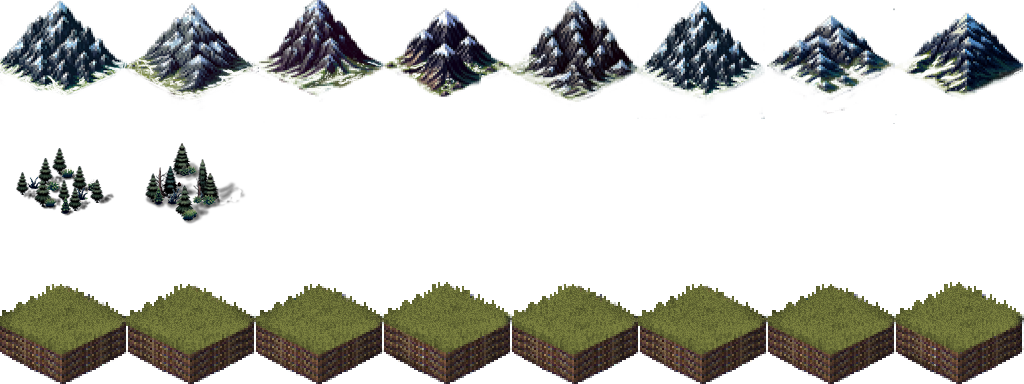
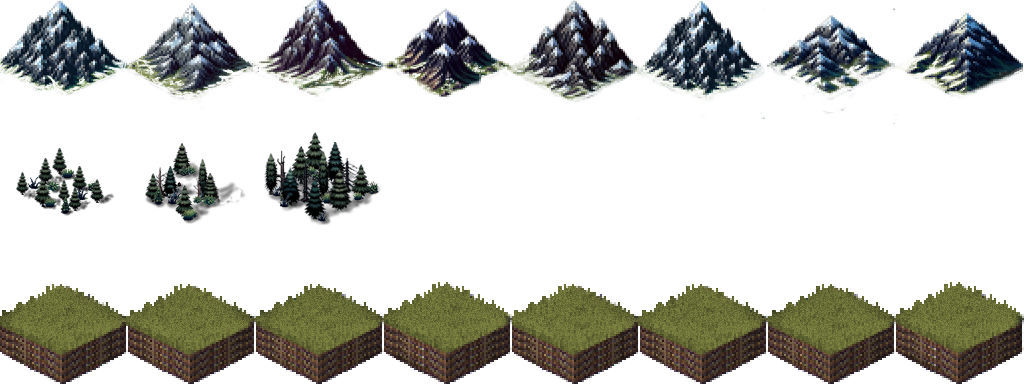
Minor UI and graphical updates

Changed region(s): [[0.25, 0.3438, 0.375, 0.5938]]

diff --git a/dtworldz.client/src/scripts/ui/tilePropsPanel.ts b/dtworldz.client/src/scripts/ui/tilePropsPanel.ts
@@ -1,0 +1,90 @@
+import Anchor from "phaser3-rex-plugins/plugins/anchor";
+
+export class TilePropsPanel extends Phaser.GameObjects.Container {
+    sizer: any;
+    biomeText: any;
+    natureText: any;
+    componentsText: any;
+    bg: any;
+    constructor(scene: any, x: number, y: number) {
+        super(scene, x, y);
+        this.bg = scene.rexUI.add.roundRectangle(0, 0, 300, 75, 0, 0x000000).setAlpha(0).setOrigin(0, 1);
+
+        this.biomeText = (this.scene as any).rexUI.add.textBox({
+            x: 10, y: -60,
+            width: 300,
+            align: 'center',
+            text: this.scene.add.text(0, 0, '', {
+                fontSize: 18,
+                wordWrap: { width: 300 },
+                maxLines: 1,
+                fontFamily: 'DTBodyFontFamily',
+                color: '#eeeeee',
+            }).setAlpha(0.8),
+            space: {
+                // For innerSizer
+                innerLeft: 0, innerRight: 2, innerTop: 0, innerBottom: 2,
+            }
+        }).setOrigin(0, 0).layout();
+
+        this.natureText = (this.scene as any).rexUI.add.textBox({
+            x: 10, y: -40,
+            width: 300,
+            align: 'center',
+            text: this.scene.add.text(0, 0, '', {
+                fontSize: 18,
+                wordWrap: { width: 300 },
+                maxLines: 1,
+                fontFamily: 'DTBodyFontFamily',
+                color: '#eeeeee',
+            }).setAlpha(0.8),
+            space: {
+                // For innerSizer
+                innerLeft: 0, innerRight: 2, innerTop: 0, innerBottom: 2,
+            }
+        }).setOrigin(0, 0).layout();
+
+        this.componentsText = (this.scene as any).rexUI.add.textBox({
+            x: 10, y: -20,
+            width: 300,
+            align: 'center',
+            text: this.scene.add.text(0, 0, '', {
+                fontSize: 16,
+                wordWrap: { width: 300 },
+                maxLines: 1,
+                fontFamily: 'DTBodyFontFamily',
+                color: '#eeeeee',
+            }).setAlpha(0.8),
+            space: {
+                // For innerSizer
+                innerLeft: 0, innerRight: 2, innerTop: 0, innerBottom: 2,
+            }
+        }).setOrigin(0, 0).layout();
+
+        this.add(this.bg);
+        this.add(this.biomeText);
+        this.add(this.natureText);
+        this.add(this.componentsText);
+
+        scene.add.existing(this);
+        new Anchor(this, { left: 'left+10', bottom: 'bottom-10' });
+    }
+
+    setTile(tile: any) {
+        if (tile) {
+            this.bg.setAlpha(0.5);
+            this.biomeText.setText(`${tile.name ? tile.name + ' biome' : ''}`);
+            this.natureText.setText(`${tile.natureDisplayName ? tile.natureDisplayName : ''}`);
+            let components: string[] = [];
+            Object.keys(tile.components).forEach((key) => {
+                components.push(key);
+            });
+            this.componentsText.setText(`${components.length > 0 ? 'Has ' + components.join(', ') : 'Has nothing useful' }`);
+        } else {
+            this.biomeText.setText('');
+            this.natureText.setText('');
+            this.componentsText.setText('');
+            this.bg.setAlpha(0);
+        }
+    }
+}

diff --git a/dtworldz.server/src/schema/tilemap/tile/baseTile.ts b/dtworldz.server/src/schema/tilemap/tile/baseTile.ts
@@ -5,16 +5,18 @@ import { Natures } from "../../../models/tilemap/tiles/Natures";
 import { Position } from "../../position";
 
 export class BaseTile extends Schema {
-
+    @type("string") name: string;
     @type("number") id: number;
     @type("number") biome: number; // plains, snow, desert, swamp, lava
     @type("number") nature: Natures; // forest, mountains, hills, lake, river
+    @type("string") natureDisplayName: string; // forest, mountains, hills, lake, river
     @type(Position) position: Position;
     @type({ map: BaseTileComponent }) components = new MapSchema<BaseTileComponent>();
     movementStrategy: BaseMovementStrategy;
 
-    constructor(id: number, position: Position, biome: number, movementStrategy: BaseMovementStrategy) {
+    constructor(name: string, id: number, position: Position, biome: number, movementStrategy: BaseMovementStrategy) {
         super();
+        this.name = name;
         this.id = id;
         this.biome = biome;
         this.movementStrategy = movementStrategy;
@@ -27,6 +29,27 @@ export class BaseTile extends Schema {
             this.nature = nature;
         } else {
             throw new Error('Tile already has nature. Cannot set nature twice.');
+        }
+
+        switch (nature) {
+            case Natures.Forest:
+                this.natureDisplayName = 'Forest';
+                break;
+            case Natures.Mountain:
+                this.natureDisplayName = 'Mountain';
+                break;
+            case Natures.Lake:
+                this.natureDisplayName = 'Lake';
+                break;
+            case Natures.River:
+                this.natureDisplayName = 'River';
+                break;
+            // case Natures.None:
+            //     this.natureDisplayName = '';
+                break;
+            default:
+                this.natureDisplayName = '';
+                break;
         }
     }
 
@@ -70,7 +93,7 @@ export class BaseTile extends Schema {
     }
 
     tryMove(mobile: any) {
-        if(this.movementStrategy.canMove(mobile)){
+        if (this.movementStrategy.canMove(mobile)) {
             this.movementStrategy.move(mobile, this);
             return true;
         }

diff --git a/dtworldz.client/src/scripts/scenes/GameRunningUIScene.ts b/dtworldz.client/src/scripts/scenes/GameRunningUIScene.ts
@@ -9,6 +9,7 @@ import { Client } from "colyseus.js";
 import Anchor from "phaser3-rex-plugins/plugins/anchor";
 import Button from "phaser3-rex-plugins/plugins/button";
 import { ClientActionPanel } from "../ui/clientActionPanel";
+import { TilePropsPanel } from "../ui/tilePropsPanel";
 
 export class GameRunningUIScene extends Phaser.Scene {
     gameScene: GameIsRunningScene;
@@ -19,6 +20,7 @@ export class GameRunningUIScene extends Phaser.Scene {
     nextTurnImage: Phaser.GameObjects.Sprite;
     nextTurnButton: Button;
     actionPanel: ClientActionPanel;
+    tilePropsPanel: TilePropsPanel;
 
     constructor() {
         super({ key: "GameRunningUIScene" });
@@ -40,6 +42,7 @@ export class GameRunningUIScene extends Phaser.Scene {
         this.attachEvents();
         this.handleTurnCountDown();
         this.actionPanel =  new ClientActionPanel(this, this.gameScene.localPlayer, 0, 0);
+        this.tilePropsPanel = new TilePropsPanel(this, 0, 0);
     }
 
     handleTurnCountDown() {
@@ -92,6 +95,7 @@ export class GameRunningUIScene extends Phaser.Scene {
     attachEvents() {
         this.gameScene.events.on('tile-props', (message: any) => {
             this.actionPanel.setActions(message);
+            this.tilePropsPanel.setTile(message);
         });
 
         this.gameScene.events.on('turn-start', (player: ClientPlayer) => {

diff --git a/dtworldz.client/src/scripts/helpers/worldMapHelper.ts b/dtworldz.client/src/scripts/helpers/worldMapHelper.ts
@@ -1,5 +1,5 @@
 const floorTileIndexes = [16, 17, 18, 19, 20, 21, 22, 23];
-const forestTileIndexes = [8, 9];//[8, 9, 10, 11, 12, 13, 14, 15];
+const forestTileIndexes = [8, 9, 10];//[8, 9, 10, 11, 12, 13, 14, 15];
 const mountainTileIndexes = [0, 1, 2, 3, 4, 5, 6, 7];
 const deerTileIndexes = [0, 1, 2, 3];
 

diff --git a/dtworldz.server/src/models/tilemap/tiles/plainsTile.ts b/dtworldz.server/src/models/tilemap/tiles/plainsTile.ts
@@ -5,6 +5,6 @@ import { Biomes } from "./Biomes";
 
 export class PlainsTile extends BaseTile {
     constructor(pos: Position) {
-        super(1, pos, Biomes.Plains,  new StandardMovement());
+        super('Plains', 1, pos, Biomes.Plains,  new StandardMovement());
     }
 }
